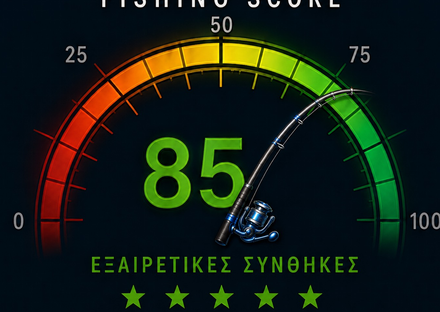
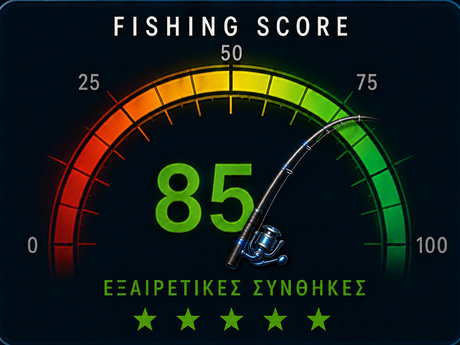
Add files via upload
Update

diff --git a/style.css b/style.css
@@ -4384,3 +4384,358 @@ body.reference-layout-v3 .activity-spectrum span {
   min-width: 0 !important;
   height: 100% !important;
 }
+
+/* =========================================================
+   CIRCLED + ANALYSIS FIX — final visual polish to ~100%
+========================================================= */
+
+/* 1-2 HEADER FISH: larger, tighter to title */
+body.reference-layout-v3 .top-header.final-master-header {
+  display: grid !important;
+  grid-template-columns: 32px minmax(0, 1fr) 70px !important;
+  column-gap: 3px !important;
+  align-items: center !important;
+  padding: 3px 5px !important;
+  overflow: hidden !important;
+}
+body.reference-layout-v3 .top-header .header-brand-lockup.brand-area {
+  display: grid !important;
+  grid-template-columns: 78px minmax(0, 1fr) 78px !important;
+  gap: 0 !important;
+  align-items: center !important;
+  min-width: 0 !important;
+}
+body.reference-layout-v3 .top-header .header-fish-asset.brand-fish {
+  width: 78px !important;
+  height: 48px !important;
+  max-width: 78px !important;
+  object-fit: contain !important;
+}
+body.reference-layout-v3 .top-header .header-fish-left {
+  object-position: right center !important;
+}
+body.reference-layout-v3 .top-header .header-fish-right {
+  object-position: left center !important;
+}
+body.reference-layout-v3 .top-header .header-brand-center {
+  min-width: 0 !important;
+  text-align: center !important;
+}
+body.reference-layout-v3 .top-header .header-brand-title {
+  font-size: 11px !important;
+  letter-spacing: 0.02em !important;
+  white-space: nowrap !important;
+  margin: 0 !important;
+  line-height: 1.15 !important;
+}
+body.reference-layout-v3 .top-header .header-brand-title .fishing-word {
+  color: #ffffff !important;
+  font-weight: 800 !important;
+}
+body.reference-layout-v3 .top-header .header-brand-title .dashboard-word {
+  color: #2eb5ff !important;
+  font-weight: 800 !important;
+}
+body.reference-layout-v3 .top-header .location-line {
+  font-size: 7.5px !important;
+  justify-content: center !important;
+  gap: 3px !important;
+  margin-top: 1px !important;
+}
+body.reference-layout-v3 .top-header .header-actions {
+  display: grid !important;
+  grid-template-columns: 32px 32px !important;
+  gap: 5px !important;
+}
+
+/* 3 MOON panel */
+body.reference-layout-v3 .moon-panel {
+  min-height: 132px !important;
+  overflow: visible !important;
+  display: flex !important;
+  flex-direction: column !important;
+}
+body.reference-layout-v3 .moon-panel .section-title,
+body.reference-layout-v3 .moon-panel .compact-title {
+  flex-shrink: 0 !important;
+}
+body.reference-layout-v3 .moon-panel .moon-main {
+  flex: 1 1 auto !important;
+  min-height: 78px !important;
+  display: grid !important;
+  grid-template-columns: 76px 1fr !important;
+  gap: 10px !important;
+  align-items: center !important;
+  padding: 6px 10px 4px !important;
+}
+body.reference-layout-v3 .moon-panel .master-moon-photo,
+body.reference-layout-v3 .moon-panel .moon-visual img,
+body.reference-layout-v3 .moon-panel img.premium-moon {
+  width: 76px !important;
+  height: 76px !important;
+  border-radius: 50% !important;
+  object-fit: cover !important;
+  box-shadow: 0 0 16px rgba(255, 200, 80, 0.25) !important;
+}
+body.reference-layout-v3 .moon-panel .moon-copy strong {
+  font-size: 26px !important;
+  line-height: 1 !important;
+  font-weight: 800 !important;
+}
+body.reference-layout-v3 .moon-panel .moon-copy span {
+  font-size: 10px !important;
+  line-height: 1.25 !important;
+  white-space: normal !important;
+  display: block !important;
+  margin-top: 3px !important;
+  color: #d4eaf6 !important;
+}
+body.reference-layout-v3 .moon-panel .moon-times {
+  display: grid !important;
+  grid-template-columns: 1fr 1fr !important;
+  gap: 8px !important;
+  flex: 0 0 36px !important;
+  min-height: 36px !important;
+  padding: 4px 10px 8px !important;
+  border-top: 1px solid rgba(90, 150, 190, 0.3) !important;
+}
+body.reference-layout-v3 .moon-panel .moon-times > div {
+  display: grid !important;
+  grid-template-columns: 14px 1fr !important;
+  grid-template-rows: auto auto !important;
+  column-gap: 5px !important;
+  align-items: center !important;
+}
+body.reference-layout-v3 .moon-panel .moon-times > div > svg {
+  grid-row: 1 / span 2 !important;
+  width: 14px !important;
+  height: 14px !important;
+  display: block !important;
+}
+body.reference-layout-v3 .moon-panel .moon-times span {
+  font-size: 7px !important;
+  color: #9ec5d8 !important;
+  white-space: nowrap !important;
+}
+body.reference-layout-v3 .moon-panel .moon-times strong {
+  font-size: 11px !important;
+  color: #fff !important;
+  font-weight: 700 !important;
+}
+
+/* 4 SCORE title visible */
+body.reference-layout-v3 .score-panel {
+  display: flex !important;
+  flex-direction: column !important;
+  padding: 6px 6px 4px !important;
+}
+body.reference-layout-v3 .score-panel > h2 {
+  display: block !important;
+  font-size: 9px !important;
+  letter-spacing: 0.12em !important;
+  text-transform: uppercase !important;
+  color: #8ec8e8 !important;
+  text-align: center !important;
+  margin: 0 0 2px !important;
+  font-weight: 700 !important;
+  opacity: 1 !important;
+  visibility: visible !important;
+  height: auto !important;
+  line-height: 1.2 !important;
+}
+body.reference-layout-v3 .score-master-photo {
+  width: 100% !important;
+  max-height: 150px !important;
+  object-fit: contain !important;
+  object-position: center top !important;
+  display: block !important;
+  flex: 1 1 auto !important;
+}
+/* hide duplicate gauge internals when using master photo */
+body.reference-layout-v3 .score-panel .score-gauge,
+body.reference-layout-v3 .score-panel .score-caption,
+body.reference-layout-v3 .score-panel .score-stars,
+body.reference-layout-v3 .score-panel .score-rod-photo {
+  display: none !important;
+}
+body.reference-layout-v3 .score-activity-row {
+  min-height: 170px !important;
+  height: auto !important;
+  align-items: stretch !important;
+}
+body.reference-layout-v3 .score-activity-row > .panel {
+  min-height: 170px !important;
+  height: auto !important;
+}
+
+/* 5 FISH ACTIVITY spectrum bar */
+body.reference-layout-v3 .activity-fish-photo {
+  height: 72px !important;
+  object-fit: contain !important;
+  display: block !important;
+  margin: 0 auto !important;
+}
+body.reference-layout-v3 .activity-spectrum {
+  display: flex !important;
+  width: 100% !important;
+  height: 10px !important;
+  margin: 8px 0 4px !important;
+  border-radius: 5px !important;
+  overflow: visible !important;
+  position: relative !important;
+  background: #0a1520 !important;
+  box-shadow: inset 0 0 0 1px rgba(80, 140, 180, 0.25) !important;
+}
+body.reference-layout-v3 .activity-spectrum span {
+  flex: 1 1 0 !important;
+  height: 100% !important;
+  min-width: 0 !important;
+}
+body.reference-layout-v3 .activity-spectrum span:nth-child(1) { background: #ff5d4a !important; }
+body.reference-layout-v3 .activity-spectrum span:nth-child(2) { background: #ff8a22 !important; }
+body.reference-layout-v3 .activity-spectrum span:nth-child(3) { background: #ffd331 !important; }
+body.reference-layout-v3 .activity-spectrum span:nth-child(4) { background: #b7e11a !important; }
+body.reference-layout-v3 .activity-spectrum span:nth-child(5) { background: #20d66b !important; }
+body.reference-layout-v3 .activity-spectrum-marker {
+  position: absolute !important;
+  top: -4px !important;
+  width: 4px !important;
+  height: 18px !important;
+  background: #ffffff !important;
+  border-radius: 2px !important;
+  left: var(--activity-percent, 85%) !important;
+  transform: translateX(-50%) !important;
+  box-shadow: 0 0 6px rgba(255,255,255,0.8) !important;
+  z-index: 2 !important;
+}
+body.reference-layout-v3 .activity-scale {
+  display: flex !important;
+  justify-content: space-between !important;
+  font-size: 7px !important;
+  color: #8eb4c8 !important;
+}
+
+/* 6 TECHNIQUES title */
+body.reference-layout-v3 .technique-section {
+  overflow: visible !important;
+  padding-bottom: 8px !important;
+}
+body.reference-layout-v3 .technique-heading {
+  display: flex !important;
+  align-items: center !important;
+  justify-content: center !important;
+  gap: 10px !important;
+  margin: 4px 0 8px !important;
+}
+body.reference-layout-v3 .technique-heading h2 {
+  display: block !important;
+  font-size: 10px !important;
+  letter-spacing: 0.14em !important;
+  text-transform: uppercase !important;
+  color: #9ecfe8 !important;
+  font-weight: 700 !important;
+  margin: 0 !important;
+  white-space: nowrap !important;
+  opacity: 1 !important;
+  visibility: visible !important;
+}
+body.reference-layout-v3 .technique-heading > span {
+  flex: 1 1 auto !important;
+  height: 1px !important;
+  background: linear-gradient(90deg, transparent, rgba(80,160,210,0.45), transparent) !important;
+}
+
+/* 7 Technique cards — tighter gaps, even spacing */
+body.reference-layout-v3 .technique-grid.technique-scroll {
+  display: grid !important;
+  grid-template-columns: repeat(4, 1fr) !important;
+  gap: 6px !important;
+  height: auto !important;
+  min-height: 138px !important;
+  overflow: visible !important;
+  padding: 0 2px 6px !important;
+}
+body.reference-layout-v3 .technique-card {
+  flex: none !important;
+  width: auto !important;
+  min-width: 0 !important;
+  height: auto !important;
+  min-height: 138px !important;
+  padding: 0 !important;
+  margin: 0 !important;
+  background: transparent !important;
+  border: 1px solid rgba(60, 120, 160, 0.28) !important;
+  border-radius: 10px !important;
+  overflow: hidden !important;
+}
+body.reference-layout-v3 .technique-card .technique-icon {
+  height: 138px !important;
+  min-height: 138px !important;
+  margin: 0 !important;
+  border-radius: 0 !important;
+}
+body.reference-layout-v3 .technique-card .technique-photo {
+  width: 100% !important;
+  height: 138px !important;
+  object-fit: cover !important;
+  object-position: center top !important;
+  display: block !important;
+}
+body.reference-layout-v3 .technique-card > strong,
+body.reference-layout-v3 .technique-card .technique-stars,
+body.reference-layout-v3 .technique-card .technique-rating-label,
+body.reference-layout-v3 .technique-card .technique-dot {
+  display: none !important;
+}
+
+/* 8 Sun fuller */
+body.reference-layout-v3 img.premium-sun-photo,
+body.reference-layout-v3 img.premium-weather-scene {
+  height: 86px !important;
+  object-fit: cover !important;
+  object-position: center 55% !important;
+  border-radius: 8px !important;
+}
+
+/* 9 Hourly labels full */
+body.reference-layout-v3 .weather-hour-cell {
+  min-width: 48px !important;
+}
+body.reference-layout-v3 .weather-hour-cell strong {
+  font-size: 6.5px !important;
+  line-height: 1.2 !important;
+  white-space: normal !important;
+  max-height: none !important;
+  overflow: visible !important;
+  display: block !important;
+  text-align: center !important;
+}
+body.reference-layout-v3 .weather-hour-cell > span:last-child {
+  display: block !important;
+  font-size: 8px !important;
+  color: #c5dcec !important;
+  margin-top: 2px !important;
+  text-align: center !important;
+}
+
+/* 10 Alerts icons clearer */
+body.reference-layout-v3 .alert-list .alert-symbol {
+  width: 22px !important;
+  height: 22px !important;
+  display: grid !important;
+  place-items: center !important;
+  border-radius: 6px !important;
+  background: rgba(30, 90, 130, 0.35) !important;
+  flex-shrink: 0 !important;
+}
+body.reference-layout-v3 .alert-list .alert-symbol i {
+  font-size: 11px !important;
+  color: #7ec8f0 !important;
+}
+body.reference-layout-v3 .alert-list li.alert-green .alert-symbol i { color: #3dff9a !important; }
+body.reference-layout-v3 .alert-list li.alert-yellow .alert-symbol i,
+body.reference-layout-v3 .alert-list li[class*="yellow"] .alert-symbol i { color: #ffd331 !important; }
+body.reference-layout-v3 .alert-list li.alert-orange .alert-symbol i,
+body.reference-layout-v3 .alert-list li[class*="orange"] .alert-symbol i { color: #ff9a3a !important; }
+body.reference-layout-v3 .alert-list li.alert-blue .alert-symbol i,
+body.reference-layout-v3 .alert-list li[class*="blue"] .alert-symbol i { color: #5eb8ff !important; }

diff --git a/app.js b/app.js
@@ -640,16 +640,28 @@
       ? "Σταθερή"
       : pressureDifference > 0 ? "Ανοδική" : "Πτωτική";
 
-    const currents = hourlyWeather.map((hour, index) => {
-      const speed = round(clamp(0.3 + index * 0.06 + Math.sin(index) * 0.04, 0.2, 0.9), 1);
-      const directionDeg = mod(45 + index * 12, 360);
-      return {
-        time: hour.time,
-        directionDeg,
-        directionLabel: windDirectionLabel(directionDeg),
-        speedKnots: speed
-      };
-    });
+    // Master locked currents (0.3–0.7 kn matching MASTER_FINAL_REFERENCE)
+    const masterCurrents = [
+      { directionLabel: "ΝΑ", directionDeg: 135, speedKnots: 0.3 },
+      { directionLabel: "ΝΑ", directionDeg: 135, speedKnots: 0.4 },
+      { directionLabel: "Α",  directionDeg: 90,  speedKnots: 0.4 },
+      { directionLabel: "Α",  directionDeg: 90,  speedKnots: 0.5 },
+      { directionLabel: "Α",  directionDeg: 90,  speedKnots: 0.6 },
+      { directionLabel: "ΑΝΑ", directionDeg: 67, speedKnots: 0.6 },
+      { directionLabel: "ΑΝΑ", directionDeg: 67, speedKnots: 0.7 }
+    ];
+    const currents = !state.provider
+      ? masterCurrents.map((c, index) => ({ time: hourlyWeather[index].time, ...c }))
+      : hourlyWeather.map((hour, index) => {
+          const speed = round(clamp(0.3 + index * 0.06 + Math.sin(index) * 0.04, 0.2, 0.9), 1);
+          const directionDeg = mod(45 + index * 12, 360);
+          return {
+            time: hour.time,
+            directionDeg,
+            directionLabel: windDirectionLabel(directionDeg),
+            speedKnots: speed
+          };
+        });
 
     const waveHeight = round(clamp(0.45 + Math.abs(dailyWave) * 0.25, 0.2, 1.3), 1);
     const wavePeriod = round(clamp(4.6 + Math.abs(Math.cos(local.getDate())) * 1.2, 3.5, 8), 1);
